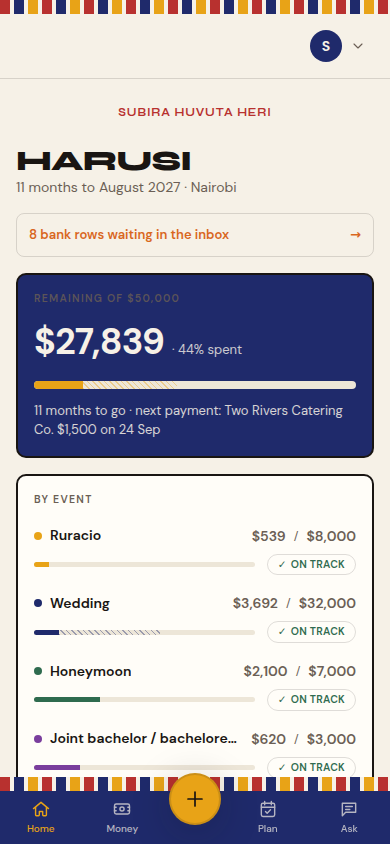
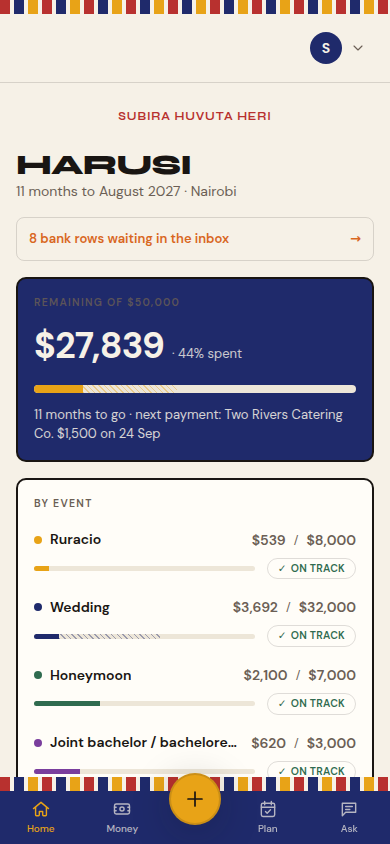
Phase C: tap targets, and the service worker stops hardcoding the name
Every tab, toggle, menu row and vendor card now clears 44pt (DESIGN.md
§5.7) — the switch still reads as 24px but sits in a 44px button. The
service worker takes the app name off its registration URL instead of
spelling it out, since a static file cannot read APP_NAME.

Claude-Session: https://claude.ai/code/session_01Y9T9q1wWrBJGoPhejzjcpm

diff --git a/components/shell/TopBar.tsx b/components/shell/TopBar.tsx
@@ -60,7 +60,7 @@ export function TopBar({
       <div className="relative">
         <button
           onClick={() => setOpen((v) => !v)}
-          className="focus-ring flex items-center gap-2 rounded-full py-1 pl-1 pr-2"
+          className="focus-ring flex min-h-11 items-center gap-2 rounded-full py-1 pl-1 pr-2"
           aria-haspopup="menu"
           aria-expanded={open}
         >
@@ -97,7 +97,7 @@ export function TopBar({
                 onClick={cycleTheme}
                 disabled={isPending}
                 className={clsx(
-                  "focus-ring flex w-full items-center justify-between rounded-md px-3 py-2 text-sm text-ink hover:bg-sunken"
+                  "focus-ring flex min-h-11 w-full items-center justify-between rounded-md px-3 py-2 text-sm text-ink hover:bg-sunken"
                 )}
               >
                 <span>Theme</span>
@@ -106,7 +106,7 @@ export function TopBar({
               <form action={signOutAction}>
                 <button
                   type="submit"
-                  className="focus-ring flex w-full items-center gap-2 rounded-md px-3 py-2 text-left text-sm text-danger hover:bg-sunken"
+                  className="focus-ring flex min-h-11 w-full items-center gap-2 rounded-md px-3 py-2 text-left text-sm text-danger hover:bg-sunken"
                 >
                   <SignOutIcon width={18} height={18} /> Sign out
                 </button>
@@ -132,7 +132,7 @@ function MenuLink({
     <Link
       href={href}
       onClick={onClick}
-      className="focus-ring flex items-center gap-2 rounded-md px-3 py-2 text-sm text-ink hover:bg-sunken"
+      className="focus-ring flex min-h-11 items-center gap-2 rounded-md px-3 py-2 text-sm text-ink hover:bg-sunken"
     >
       {children}
     </Link>

diff --git a/components/ui/Toggle.tsx b/components/ui/Toggle.tsx
@@ -19,24 +19,31 @@ export function Toggle({ checked, onChange, label, disabled, id }: ToggleProps) 
         disabled ? "cursor-not-allowed opacity-50" : "cursor-pointer"
       )}
     >
+      {/* The switch reads as 24px tall but the button it lives in is 44,
+          so the tap target meets DESIGN.md §5.7. */}
       <button
         id={id}
         type="button"
         role="switch"
         aria-checked={checked}
+        aria-label={label ? undefined : "Toggle"}
         disabled={disabled}
         onClick={() => onChange(!checked)}
-        className={clsx(
-          "focus-ring relative h-6 w-11 shrink-0 rounded-full transition-colors",
-          checked ? "bg-primary" : "bg-sunken"
-        )}
+        className="focus-ring flex h-11 w-11 shrink-0 items-center justify-center"
       >
         <span
           className={clsx(
-            "absolute top-0.5 h-5 w-5 rounded-full bg-card transition-transform",
-            checked ? "translate-x-[22px]" : "translate-x-0.5"
+            "relative block h-6 w-11 rounded-full transition-colors",
+            checked ? "bg-primary" : "bg-sunken"
           )}
-        />
+        >
+          <span
+            className={clsx(
+              "absolute top-0.5 h-5 w-5 rounded-full bg-card transition-transform",
+              checked ? "translate-x-[22px]" : "translate-x-0.5"
+            )}
+          />
+        </span>
       </button>
       {label ? <span className="text-sm text-ink">{label}</span> : null}
     </label>

diff --git a/public/sw.js b/public/sw.js
@@ -1,9 +1,14 @@
-// Harusi service worker (DESIGN.md §9). No push UI yet — Phase B wires
-// web-push subscriptions; the handlers below are ready for it.
+// Service worker (DESIGN.md §9): offline shell, plus the push and
+// notification-click handlers Settings subscribes through.
+
+// The app name comes from APP_NAME, which a static file cannot read, so the
+// page passes it on the registration URL (?app=…).
+const APP_NAME = new URL(self.location.href).searchParams.get("app") || "";
+const CACHE_PREFIX = (APP_NAME || "app").toLowerCase().replace(/[^a-z0-9]+/g, "-");
 
 const CACHE_VERSION = "v1";
-const PRECACHE = `harusi-precache-${CACHE_VERSION}`;
-const RUNTIME = `harusi-runtime-${CACHE_VERSION}`;
+const PRECACHE = `${CACHE_PREFIX}-precache-${CACHE_VERSION}`;
+const RUNTIME = `${CACHE_PREFIX}-runtime-${CACHE_VERSION}`;
 
 const PRECACHE_URLS = [
   "/offline",
@@ -76,10 +81,10 @@ self.addEventListener("push", (event) => {
   try {
     payload = event.data.json();
   } catch {
-    payload = { title: "Harusi", body: event.data.text() };
+    payload = { title: APP_NAME, body: event.data.text() };
   }
 
-  const title = payload.title || "Harusi";
+  const title = payload.title || APP_NAME || "Update";
   const options = {
     body: payload.body || "",
     icon: "/icons/icon-192.png",

diff --git a/components/pwa/ServiceWorkerRegister.tsx b/components/pwa/ServiceWorkerRegister.tsx
@@ -2,12 +2,13 @@
 
 import { useEffect } from "react";
 
-/** Registers public/sw.js once the page has loaded. No push UI yet (Phase B). */
-export function ServiceWorkerRegister() {
+/** Registers public/sw.js once the page has loaded; Settings subscribes to push through it. */
+export function ServiceWorkerRegister({ appName }: { appName: string }) {
   useEffect(() => {
     if (typeof window === "undefined" || !("serviceWorker" in navigator)) return;
     const register = () => {
-      navigator.serviceWorker.register("/sw.js").catch(() => {
+      // The name rides along on the URL: a static worker cannot read env.
+      navigator.serviceWorker.register(`/sw.js?app=${encodeURIComponent(appName)}`).catch(() => {
         // Non-fatal: the app still works without an installed service worker.
       });
     };
@@ -17,7 +18,7 @@ export function ServiceWorkerRegister() {
       window.addEventListener("load", register);
       return () => window.removeEventListener("load", register);
     }
-  }, []);
+  }, [appName]);
 
   return null;
 }

diff --git a/components/vendors/VendorsTab.tsx b/components/vendors/VendorsTab.tsx
@@ -66,7 +66,7 @@ export function VendorsTab() {
         <div className="grid gap-3 sm:grid-cols-2">
           {vendors.map((vendor) => (
             <Card key={vendor.id} className="flex flex-col gap-2">
-              <button onClick={() => setOpenId(vendor.id)} className="focus-ring text-left">
+              <button onClick={() => setOpenId(vendor.id)} className="focus-ring min-h-11 text-left">
                 <div className="flex items-start justify-between gap-2">
                   <span className="font-display text-[15px] font-bold text-ink">{vendor.name}</span>
                   {vendor.status === "BOOKED" || vendor.status === "PAID" ? (

diff --git a/components/ui/Tabs.tsx b/components/ui/Tabs.tsx
@@ -51,7 +51,7 @@ export function Tabs({ items, value, onChange, className }: TabsProps) {
             aria-selected={active}
             onClick={() => onChange(item.value)}
             className={clsx(
-              "focus-ring min-h-9 flex-1 whitespace-nowrap rounded-md px-3 text-[13px] font-semibold transition-colors",
+              "focus-ring min-h-11 flex-1 whitespace-nowrap rounded-md px-3 text-[13px] font-semibold transition-colors",
               active ? "bg-primary text-on-primary" : "text-ink-soft"
             )}
           >

diff --git a/app/layout.tsx b/app/layout.tsx
@@ -44,7 +44,7 @@ export default function RootLayout({ children }: LayoutProps<"/">) {
     <html lang="en" className={`${syne.variable} ${dmSans.variable} h-full`}>
       <body className="min-h-full flex flex-col font-body bg-bg text-ink antialiased">
         {children}
-        <ServiceWorkerRegister />
+        <ServiceWorkerRegister appName={appName} />
       </body>
     </html>
   );
